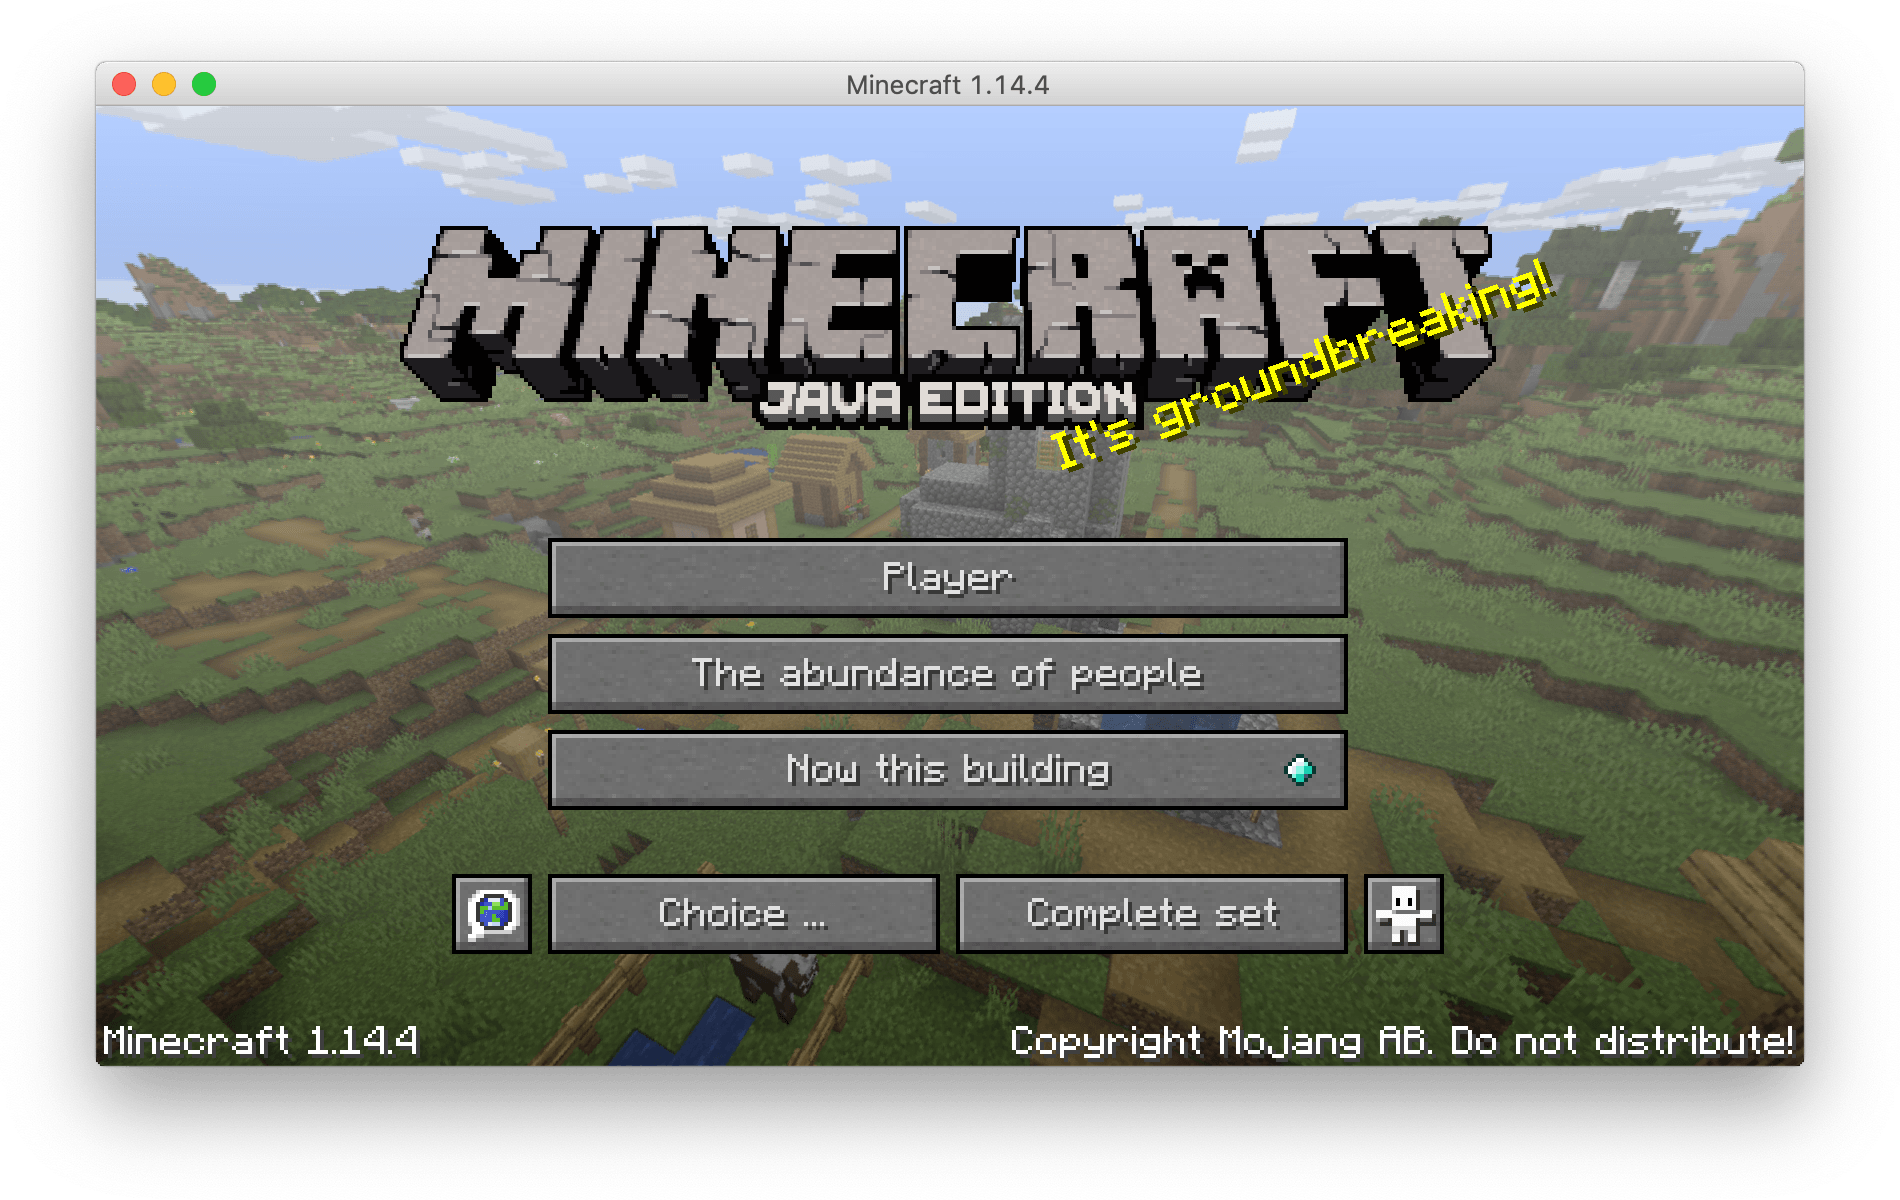
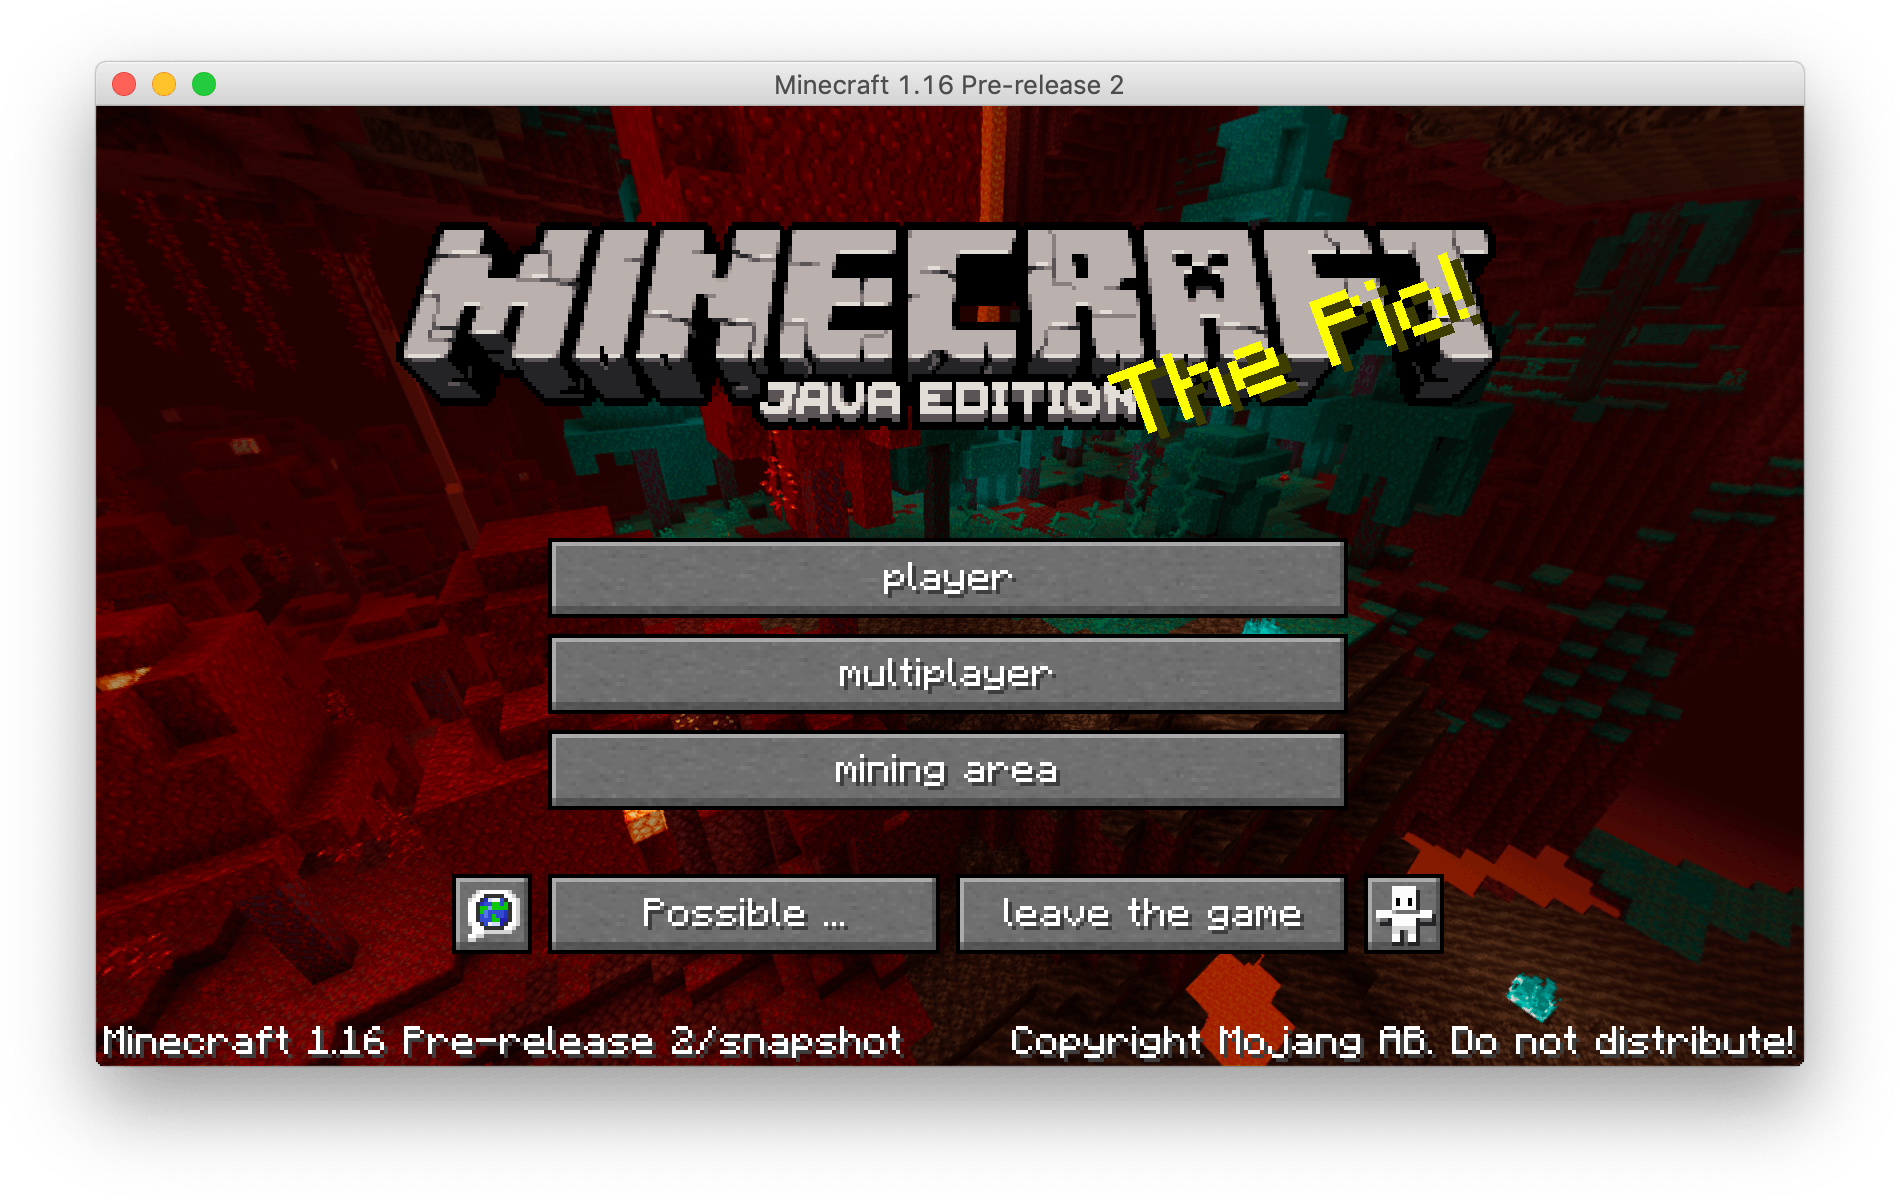
1.16 10x pack and text changes

diff --git a/mc-googletranslate/index.html b/mc-googletranslate/index.html
@@ -1,7 +1,7 @@
 <html>
 <head>
     <title>Minecraft Google Translate Resource Packs</title>
-    <meta name="description" content="'Google Mineral Reserve Packs'">
+    <meta name="description" content="Translating Minecraft too many times">
     <link id="favicon" rel="icon" href="https://avatars2.githubusercontent.com/u/22283943" type="image/x-icon">
     <meta property="og:image" content="https://ravbug.github.io/mc-googletranslate/main.png">
     <meta property="og:image:type" content="image/png">
@@ -21,38 +21,41 @@
     <p>
         Inspired by <a target="_blank"
             href="https://www.reddit.com/r/PhoenixSC/comments/cnbe4l/google_translate_minecraft/">DutChen18</a>,
-        I created two Google Translate resource packs for Minecraft Java Edition 1.14. All text in the game has been translated,
+        I created two Google Translate resource packs for Minecraft Java Edition 1.16. All text in the game has been translated,
         including the splash texts, the end poem, and the game's credits.
     </p>
     <p>
-        There are two packs available: a 10x translation and a 30x translation. 
+        There are two versions available: a 10x translation and a 30x translation. 
     </p>
     <p>
         To get around Google's IP tempban (which they impose if you spam the translation URL too much), I created a
         Google Spreadsheet which performs the translations using the <code>GOOGLETRANSLATE()</code> call. Then, I
-        wrote a program which takes the JSON langauge file and converts it to a CSV. I pasted
-        the CSV's cells into the spreadsheet and waited until the next day. After downloading the results as a CSV, 
-        I wrote a second program to convert the CSV back to JSON. 
-    </p>
-    <p>
-        Unlike DutChen18 I didn't think to pre-process the <code>%s</code> / <code>%1$s</code> special tokens in the
-        language file before dumping as a CSV, so I had to fix those manually. If anything is broken, 
-        please tell me (comment on the <a href="https://www.reddit.com/r/Minecraft/comments/e6itja/google_translate_resource_packs_10x_and_30x/">reddit thread</a>) so I can fix it.
+        wrote a C++ program which takes the JSON langauge file and coverts it to a TSV (Tab-separated values). I pasted
+        the TSV's cells into the spreadsheet and waited a couple hours. I wrote a pnython script to download the spreadsheet directly as plain text and 
+        used a second C++ program I wrote to convert the spreadsheet back to JSON. The source code for these programs is available <a target="_blank" href="https://github.com/Ravbug/GameGoogleTranslate">on GitHub</a>.
     </p>
     <p>
         If you want to mess around with translation telephone, I made a webpage which lets you do that easily. 
         You can visit it here: <a href="../hypertranslate/">Hypertranslate</a>. Note that if you use this too much
-        Google will temporarily block your IP (since it runs clientside) and it will stop working. 
+        Google will temporarily block your IP (it runs client-side) and it will stop working. 
     </p>
     <h4>How to use</h4>
         <ol>
-            <li>Place the .zip files inside <code>minecraft/resourcepacks</code> and extract them.</li>
-            <li>Open Minecraft, select Options > Resource Packs, and enable the resource pack you want to use.</li>
-            <li>Return to the Options menu, select Language, then find Google Translate in the list and select it.</li>
+            <li>Place the .zip files inside your resourcepacks folder at <code>minecraft/resourcepacks</code> and extract them.</li>
+            <li>Open Minecraft, select Options > Resource Packs, and enable the resource pack you want to use. <b>It will not be active right away.</b></li>
+            <li><b>Important!</b> Return to the Options menu, select Language, then find Google Translate in the list and select it.</li>
             <li>Return to the menu. The text should be changed.</li>
         </ol>
-        <h6><a href="http://bit.ly/37ZW6iO">Download 10x pack</a></h6>
-        <h6><a href="http://bit.ly/2DXYNnv">Download 30x pack</a></h6>
+    <hr>
+    <h4>Downloads</h4>
+        
+        <h6><a href="https://bit.ly/3h3e3kX">Download 10x pack for 1.16+</a></h6>
+        <h6>Download 30x pack for 1.16+ coming soon</h6>
+        <details>
+            <summary>Older Downloads</summary>
+            <h6><a href="http://bit.ly/37ZW6iO">10x pack for 1.14</a></h6>
+            <h6><a href="http://bit.ly/2DXYNnv">30x pack for 1.14</a></h6>
+        </details>
     <hr>
     <img src="main.png">
     <img src="options.png">
